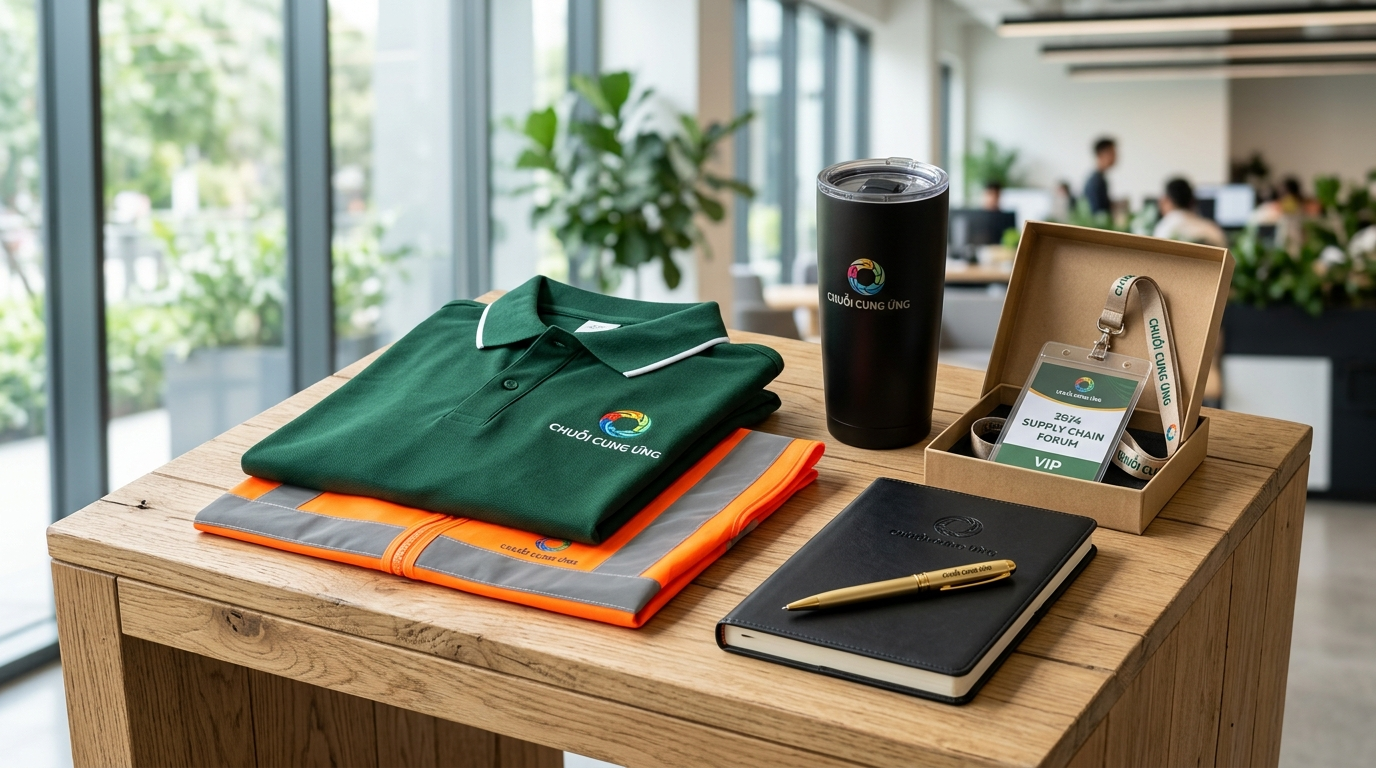
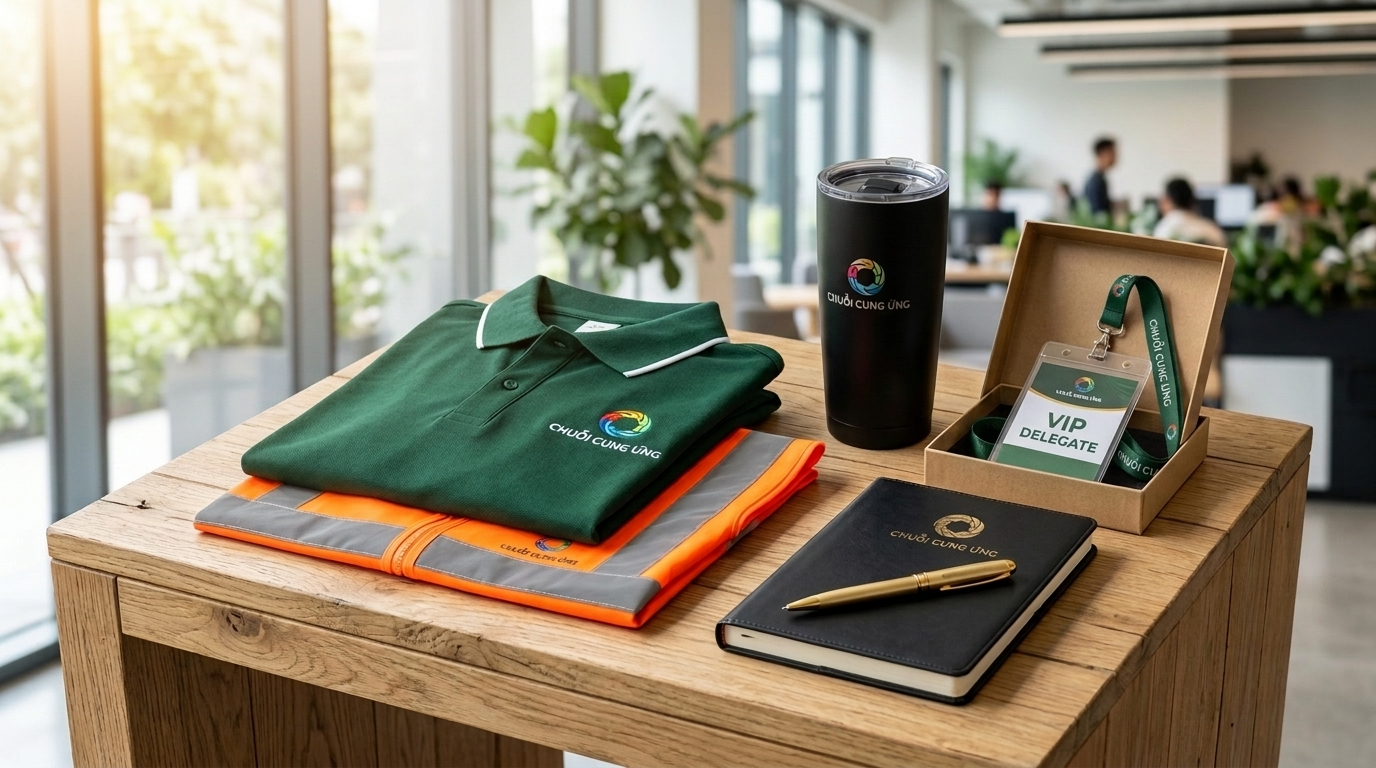
feat(ui): update ecosystem and services dropdown hover to CCU green and integrate official logo_only on merchandise kit

diff --git a/src/components/Navbar.jsx b/src/components/Navbar.jsx
@@ -321,31 +321,31 @@ export default function Navbar() {
                                 to={sub.path}
                                 className={`flex items-center p-2 rounded-xl transition group/sub ${
                                   isSubActive
-                                    ? 'bg-blue-50/90 text-blue-950 font-bold border border-blue-200/90 shadow-2xs'
-                                    : 'hover:bg-slate-50 border border-transparent'
+                                    ? 'bg-emerald-50/90 text-emerald-950 font-bold border border-emerald-200/90 shadow-2xs'
+                                    : 'hover:bg-emerald-50/80 border border-transparent hover:border-emerald-200/70 hover:shadow-2xs'
                                 }`}
                               >
                                 <div className={`w-8 h-8 rounded-xl border flex items-center justify-center mr-2.5 shrink-0 transition-all duration-200 shadow-2xs ${
                                   isSubActive
-                                    ? 'bg-[#0052cc] text-white border-[#0052cc] shadow-xs'
-                                    : 'bg-slate-50 border-slate-200/90 text-slate-700 group-hover/sub:bg-[#0052cc] group-hover/sub:text-white group-hover/sub:border-[#0052cc]'
+                                    ? 'bg-[#006039] text-white border-[#006039] shadow-xs'
+                                    : 'bg-slate-50 border-slate-200/90 text-slate-700 group-hover/sub:bg-[#006039] group-hover/sub:text-white group-hover/sub:border-[#006039]'
                                 }`}>
                                   <SubIcon className="w-4 h-4" />
                                 </div>
                                 <div className="flex-1 min-w-0">
                                   <div className={`text-xs font-bold transition-colors flex items-center justify-between ${
-                                    isSubActive ? 'text-[#0052cc] font-extrabold' : 'text-slate-900 group-hover/sub:text-[#0052cc]'
+                                    isSubActive ? 'text-[#006039] font-extrabold' : 'text-slate-900 group-hover/sub:text-[#006039]'
                                   }`}>
                                     <span>{sub.name}</span>
                                   </div>
                                   <div className={`text-[11px] truncate mt-0.5 ${
-                                    isSubActive ? 'text-blue-700/80 font-medium' : 'text-slate-400'
+                                    isSubActive ? 'text-emerald-700/80 font-medium' : 'text-slate-400 group-hover/sub:text-emerald-700/80'
                                   }`}>{sub.desc}</div>
                                 </div>
                                 <ChevronRight className={`w-3.5 h-3.5 transition-all ml-1 shrink-0 ${
                                   isSubActive
-                                    ? 'text-[#0052cc] opacity-100 translate-x-0.5'
-                                    : 'text-slate-300 group-hover/sub:text-[#0052cc] group-hover/sub:translate-x-0.5 opacity-0 group-hover/sub:opacity-100'
+                                    ? 'text-[#006039] opacity-100 translate-x-0.5'
+                                    : 'text-slate-300 group-hover/sub:text-[#006039] group-hover/sub:translate-x-0.5 opacity-0 group-hover/sub:opacity-100'
                                 }`} />
                               </Link>
                             );
@@ -380,30 +380,30 @@ export default function Navbar() {
                                 className={`flex items-center p-2 rounded-xl transition group/sub ${
                                   isSubActive
                                     ? 'bg-emerald-50/90 text-emerald-950 font-bold border border-emerald-200/90 shadow-2xs'
-                                    : 'hover:bg-slate-50 border border-transparent'
+                                    : 'hover:bg-emerald-50/80 border border-transparent hover:border-emerald-200/70 hover:shadow-2xs'
                                 }`}
                               >
                                 <div className={`w-8 h-8 rounded-xl border flex items-center justify-center mr-2.5 shrink-0 transition-all duration-200 shadow-2xs ${
                                   isSubActive
-                                    ? 'bg-emerald-600 text-white border-emerald-600 shadow-xs'
-                                    : 'bg-slate-50 border-slate-200/90 text-slate-700 group-hover/sub:bg-emerald-600 group-hover/sub:text-white group-hover/sub:border-emerald-600'
+                                    ? 'bg-[#006039] text-white border-[#006039] shadow-xs'
+                                    : 'bg-slate-50 border-slate-200/90 text-slate-700 group-hover/sub:bg-[#006039] group-hover/sub:text-white group-hover/sub:border-[#006039]'
                                 }`}>
                                   <SubIcon className="w-4 h-4" />
                                 </div>
                                 <div className="flex-1 min-w-0">
                                   <div className={`text-xs font-bold transition-colors flex items-center justify-between ${
-                                    isSubActive ? 'text-emerald-800 font-extrabold' : 'text-slate-900 group-hover/sub:text-emerald-700'
+                                    isSubActive ? 'text-[#006039] font-extrabold' : 'text-slate-900 group-hover/sub:text-[#006039]'
                                   }`}>
                                     <span>{sub.name}</span>
                                   </div>
                                   <div className={`text-[11px] truncate mt-0.5 ${
-                                    isSubActive ? 'text-emerald-700/80 font-medium' : 'text-slate-400'
+                                    isSubActive ? 'text-emerald-700/80 font-medium' : 'text-slate-400 group-hover/sub:text-emerald-700/80'
                                   }`}>{sub.desc}</div>
                                 </div>
                                 <ChevronRight className={`w-3.5 h-3.5 transition-all ml-1 shrink-0 ${
                                   isSubActive
-                                    ? 'text-emerald-600 opacity-100 translate-x-0.5'
-                                    : 'text-slate-300 group-hover/sub:text-emerald-600 group-hover/sub:translate-x-0.5 opacity-0 group-hover/sub:opacity-100'
+                                    ? 'text-[#006039] opacity-100 translate-x-0.5'
+                                    : 'text-slate-300 group-hover/sub:text-[#006039] group-hover/sub:translate-x-0.5 opacity-0 group-hover/sub:opacity-100'
                                 }`} />
                               </Link>
                             );
